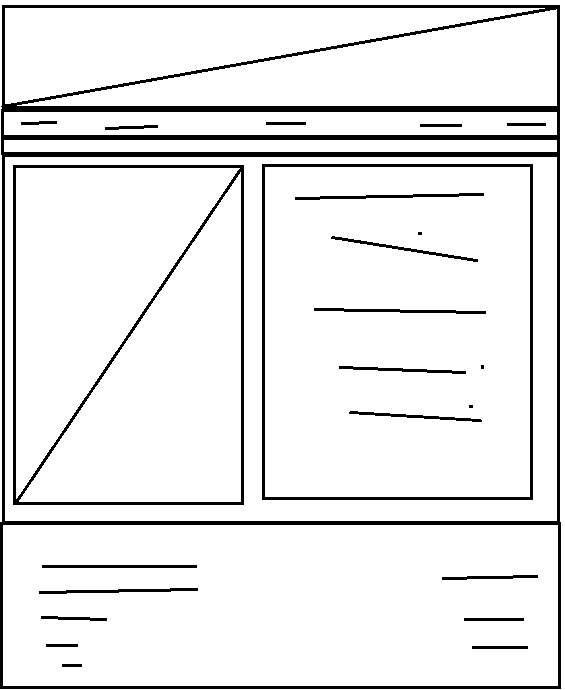
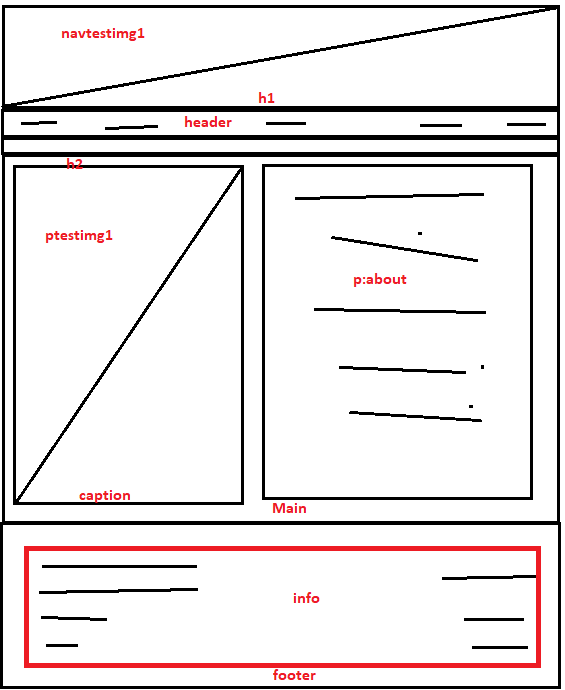
,
,

diff --git a/index.html b/index.html
@@ -1,0 +1,73 @@
+<!DOCTYPE html>
+<html>
+<head>
+	<title>test page</title>
+</head>
+<body>
+<!-- Header element -->
+<header>
+	<img src="image2/navtestimg1.png">
+	<link rel="apple-touch-icon" sizes="180x180" href="/apple-touch-icon.png">
+    <link rel="icon" type="image/png" sizes="32x32" href="/favicon-32x32.png">
+    <link rel="manifest" href="/site.webmanifest">
+    <link rel="icon"  href="image1/spnr.png">
+	<h1>Test image</h1>
+</header>
+
+<!-- main element -->
+<main>
+	<h2>Ptest image</h2>
+	<div style="position: absolute; left: 200px;">
+		<img src="image2/ptestimg1.png">
+	</div>
+	<div style="position: absolute; right: 1000px; background: blueviolet;">
+		<p>
+			Paragraph test <br>
+			test Paragraph <br>
+			Paragraph test <br>
+			test Paragraph <br>
+			Paragraph test <br>
+			test Paragraph <br>
+			Paragraph test <br>
+			test Paragraph <br>
+			Paragraph test <br>
+			test Paragraph <br>
+			
+		</p>
+		<!-- random shit, lists and stuff -->
+	</div>
+	<p>
+		test1234
+	</p>
+	<h2>ordered list</h2>
+	<ol>
+		<li>test1</li>
+		<li>test2</li>
+		<li>test3</li>
+
+	</ol>
+	<h2>unorglist + links</h2>
+	<p>paragraph</p>
+<ul>
+	<li><a href="https://google.com"> img1</a></li>
+	<li><a href="https://google.com"> img2</a></li>
+	<li><a href="https://google.com"> img3</a></li>
+
+</ul>
+
+
+</main>
+<!-- footer element -->
+<footer>
+	<p>site <a href="https://bing.com">created</a> &copy; test</p>
+	<div>
+		test<br>
+		test1<br>
+		test2
+	</div>
+
+
+</footer>
+
+</body>
+</html>
